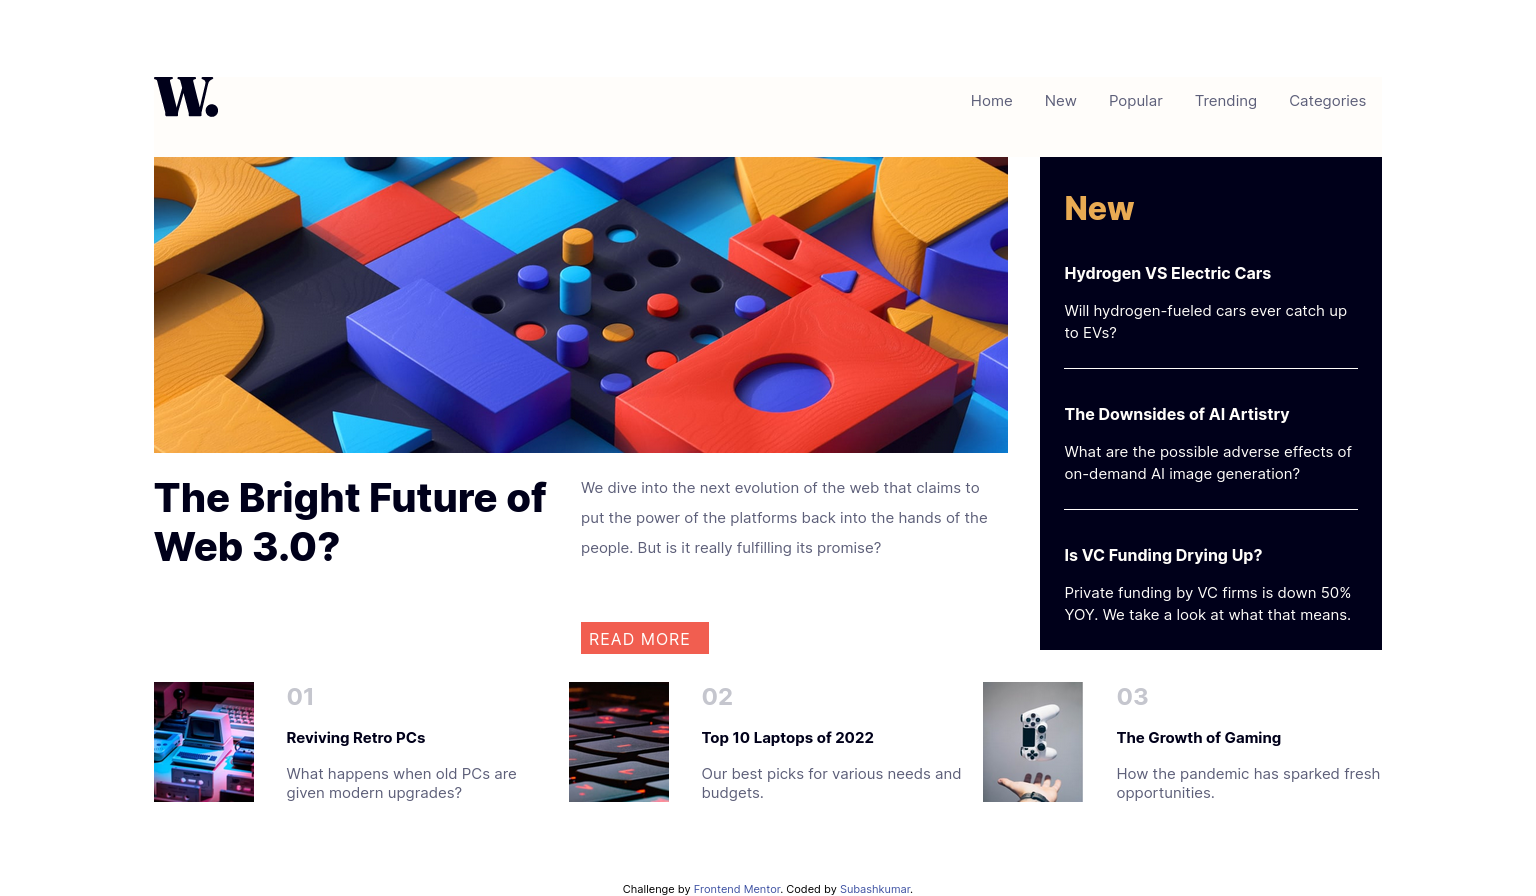
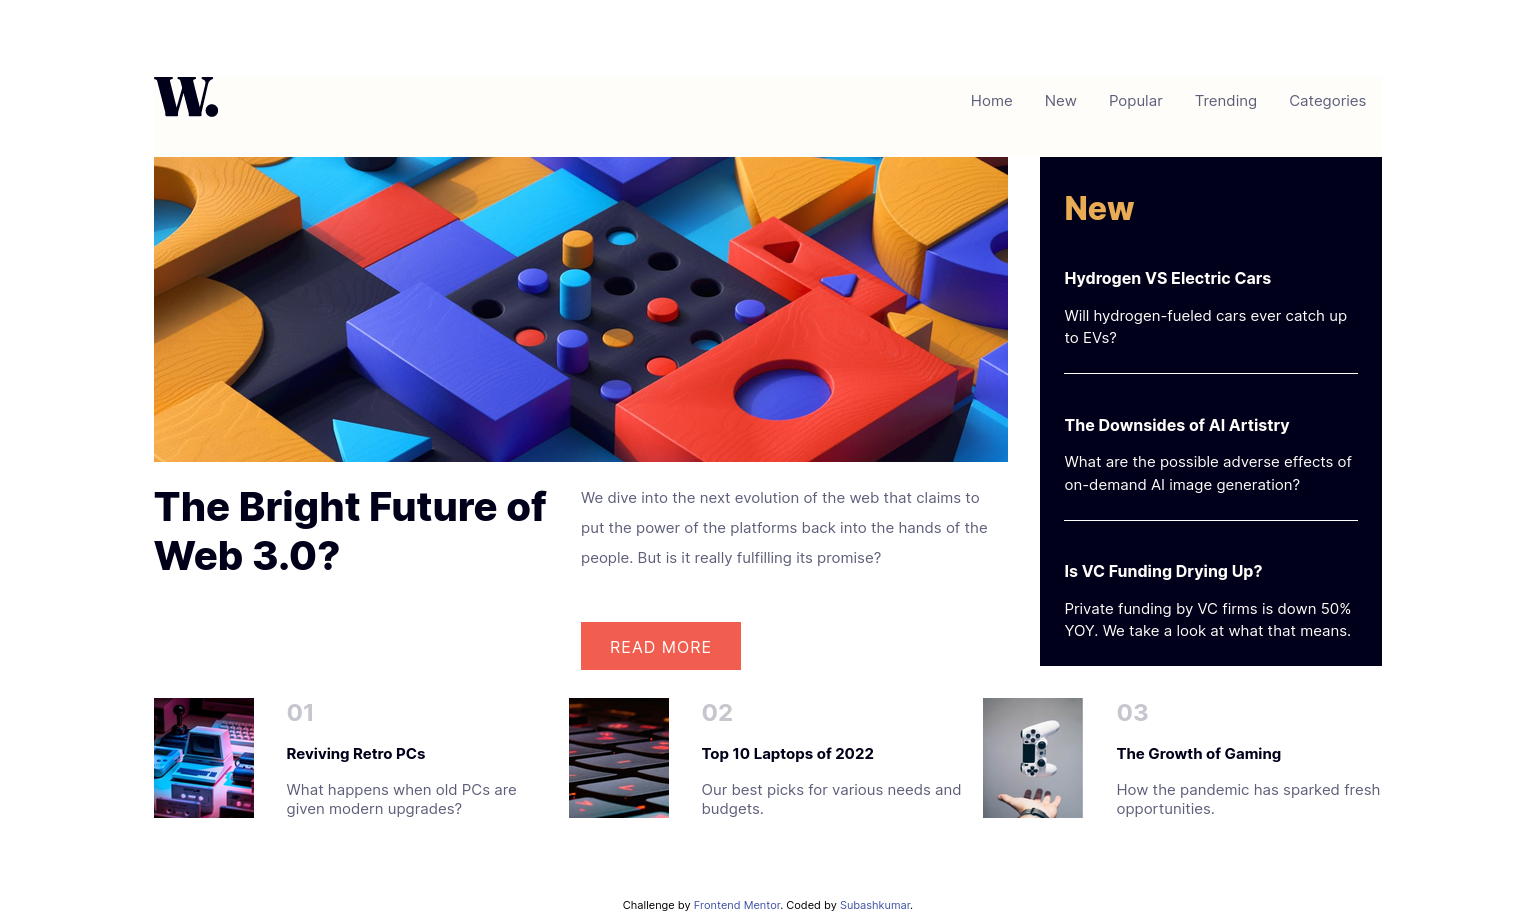
updated read more button

diff --git a/styles.css b/styles.css
@@ -106,14 +106,15 @@ header{
     overflow: auto;
 }
 .inner_container2 a{
-    width: 8rem;
-    height: 2rem;
+    text-align: center;
+    width: 10rem;
+    height: 3rem;
     border: none;
     background-color: var(--soft-red);
     font-size: 1rem;
     color: var(--off-white);
     text-transform: uppercase;
-    padding: .5rem .5rem; 
+    padding: 1rem .5rem; 
     letter-spacing: 1px;
 }
 .inner_container2 a:hover{

diff --git a/index.html b/index.html
@@ -24,9 +24,6 @@
         <li><a href="#">Trending</a></li>
         <li><a href="#">Categories</a></li>
       </ul>
-      <!-- <div class="hamburger">
-        <a id="hamBurger" href="#"><svg width="40" height="17" xmlns="http://www.w3.org/2000/svg"><g fill="#00001A" fill-rule="evenodd"><path d="M0 0h40v3H0zM0 7h40v3H0zM0 14h40v3H0z"/><path d="M0 0h40v3H0z"/></g></svg></a>
-      </div> -->
     </nav>
 
   </header>
